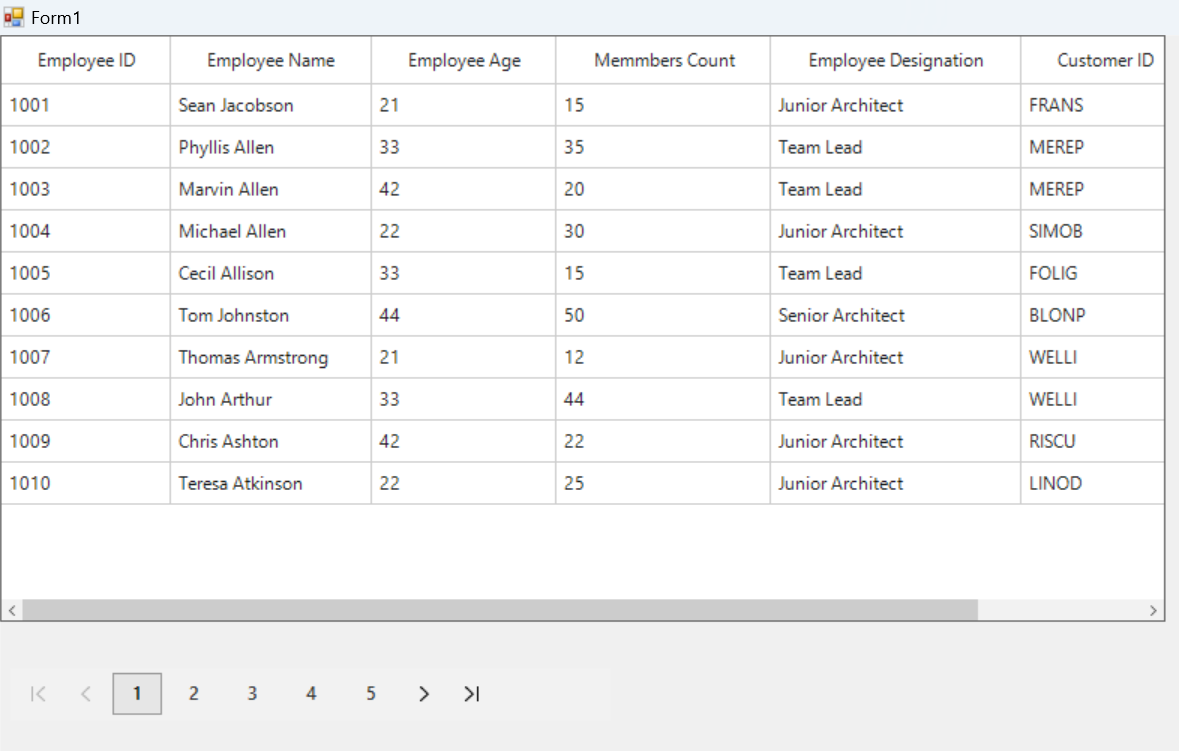
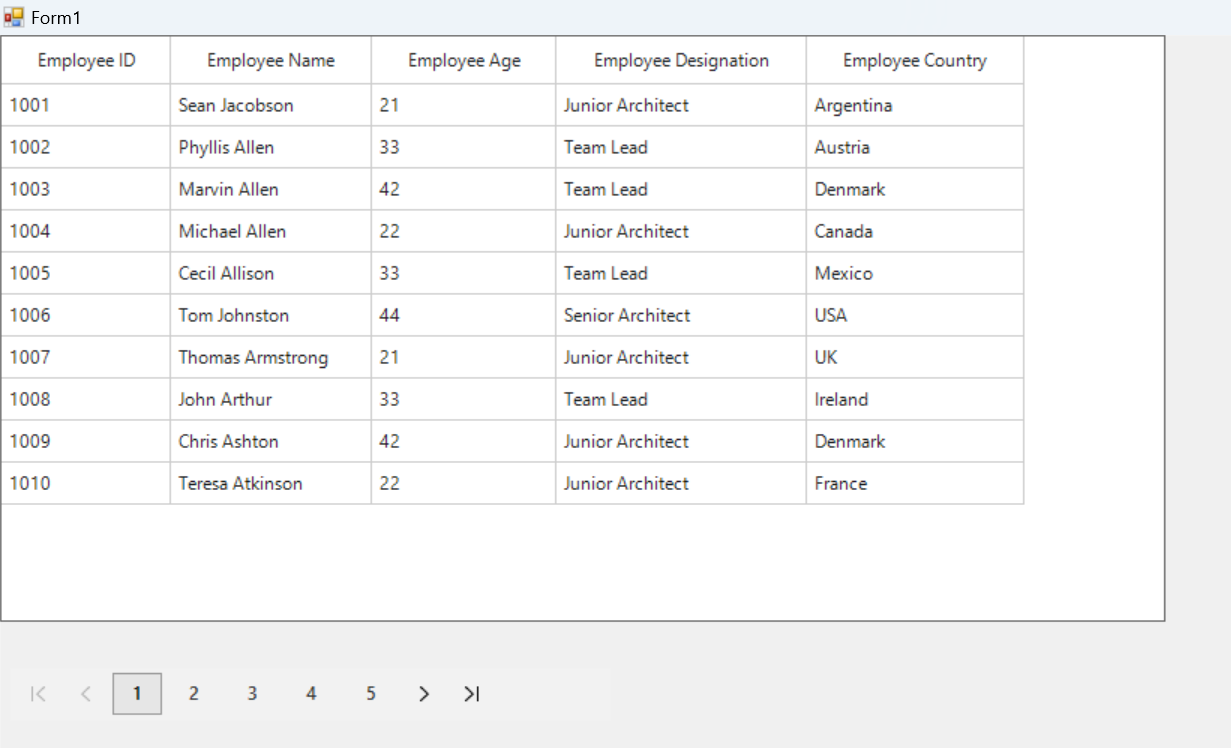
Addressed the concerns.

diff --git a/SfDatagridDemo/SfDatagridDemo/Form1.cs b/SfDatagridDemo/SfDatagridDemo/Form1.cs
@@ -80,62 +80,60 @@ namespace SfDatagridDemo
             myDataTable.Columns.Add("Employee ID", typeof(int));
             myDataTable.Columns.Add("Employee Name", typeof(string));
             myDataTable.Columns.Add("Employee Age", typeof(double));
-            myDataTable.Columns.Add("Memmbers Count", typeof(double));
             myDataTable.Columns.Add("Employee Designation", typeof(string));
-            myDataTable.Columns.Add("Customer ID", typeof(string));
-            myDataTable.Columns.Add("Ship Country", typeof(string));
+            myDataTable.Columns.Add("Employee Country", typeof(string));
 
             // Add some rows to the DataTable.
-            myDataTable.Rows.Add(1001, "Sean Jacobson", 21, 15,  "Junior Architect", "FRANS", "Argentina");
-            myDataTable.Rows.Add(1002, "Phyllis Allen", 33, 35, "Team Lead", "MEREP", "Austria");
-            myDataTable.Rows.Add(1003, "Marvin Allen", 42, 20, "Team Lead", "MEREP", "Denmark");
-            myDataTable.Rows.Add(1004, "Michael Allen", 22, 30, "Junior Architect", "SIMOB", "Canada");
-            myDataTable.Rows.Add(1005, "Cecil Allison", 33, 15,"Team Lead", "FOLIG", "Mexico");
-            myDataTable.Rows.Add(1006, "Tom Johnston", 44,50, "Senior Architect", "BLONP", "USA");
-            myDataTable.Rows.Add(1007, "Thomas Armstrong", 21, 12,"Junior Architect", "WELLI", "UK");
-            myDataTable.Rows.Add(1008, "John Arthur", 33, 44,"Team Lead", "WELLI", "Ireland");
-            myDataTable.Rows.Add(1009, "Chris Ashton", 42,22, "Junior Architect", "RISCU", "Denmark");
-            myDataTable.Rows.Add(1010, "Teresa Atkinson", 22, 25,"Junior Architect", "LINOD", "France");
-            myDataTable.Rows.Add(1011, "John Ault", 33,10, "Sales Engineer", "FOLKO", "Argentina");
-            myDataTable.Rows.Add(1012, "Robert Avalos", 44,45, "Team Lead", "PICCO", "Austria");
-            myDataTable.Rows.Add(1013, "Cecil Allison", 21,7, "Junior Architect", "SIMOB", "Switzerland");
-            myDataTable.Rows.Add(1014, "Stephen Ayers", 33,34, "Junior Architect", "MEREP", "Ireland");
-            myDataTable.Rows.Add(1015, "Selena Alvarad", 42, 40,"Team Lead", "BLONP", "Canada");
-            myDataTable.Rows.Add(1016, "Phyllis Allen", 22,30, "Junior Architect", "LINOD", "Mexico");
-            myDataTable.Rows.Add(1017, "Maxwell Amland", 33,20, "Senior Architect", "FOLIG", "Austria");
-            myDataTable.Rows.Add(1018, "Gustavo Achong", 44,10, "Engineer", "FRANS", "USA");
-            myDataTable.Rows.Add(1019, "Hannah Arakawa", 21,9, "Sales Engineer", "WELLI", "Denmark");
-            myDataTable.Rows.Add(1020, "Stephen Ayers", 33,8, "Senior Architect", "SEVES", "Spain");
-            myDataTable.Rows.Add(1021, "Mae Anderson", 42,40, "Engineer", "RISCU", "Switzerland");
-            myDataTable.Rows.Add(1022, "ames Aguilar", 22,40, "Junior Architect", "SIMOB", "Argentina");
-            myDataTable.Rows.Add(1023, "Sean Jacobson", 33,35, "Team Lead", "FURIB", "Canada");
-            myDataTable.Rows.Add(1024, "Marvin Allen", 44,35, "Sales Engineer", "FOLKO", "France");
-            myDataTable.Rows.Add(1025, "Michael Allen", 21,30, "Junior Architect", "PICCO", "Italy");
-            myDataTable.Rows.Add(1026, "Frances Adams", 33,20, "Team Lead", "WARTH", "Germany");
-            myDataTable.Rows.Add(1027, "Gustavo Achong", 42,40, "Engineer", "VAFFE", "Argentina");
-            myDataTable.Rows.Add(1028, "Chris Ashton", 22, 34, "Junior Architect", "FOLIG", "Denmark");
-            myDataTable.Rows.Add(1029, "Robert Avalos", 33, 43,"Senior Architect", "MEREP", "Canada");
-            myDataTable.Rows.Add(1030, "John Arthur", 44, 65,"Sales Engineer", "LINOD", "Austria");
-            myDataTable.Rows.Add(1031, "Stephen Ayers", 21, 23,"Junior Architect", "BLONP", "France");
-            myDataTable.Rows.Add(1032, "Teresa Atkinson", 33, 32,"Team Lead", "RISCU", "Argentina");
-            myDataTable.Rows.Add(1033, "Thomas Armstrong", 42,21,"Senior Architect", "FURIB", "Ireland");
-            myDataTable.Rows.Add(1034, "Kyley Arbelaez", 22,11, "Junior Architect", "PICCO", "Austria");
-            myDataTable.Rows.Add(1035, "Maxwell Amland", 33,10, "Senior Architect", "FOLKO", "Denmark");
-            myDataTable.Rows.Add(1036, "Frances Adams", 44,32, "Sales Engineer", "FRANS", "France");
-            myDataTable.Rows.Add(1037, "Hannah Arakawa", 21,22, "Sales Engineer", "SIMOB", "Canada");
-            myDataTable.Rows.Add(1038, "Kyley Arbelaez", 33,33, "Senior Architect", "FOLIG", "Italy");
-            myDataTable.Rows.Add(1039, "Maxwell Amland", 42,43, "Engineer", "SEVES", "Mexico");
-            myDataTable.Rows.Add(1040, "Stephen Ayers", 22,32, "Junior Architect", "LINOD", "Argentina");
-            myDataTable.Rows.Add(1041, "John Ault", 33,22, "Team Lead", "WELLI", "France");
-            myDataTable.Rows.Add(1042, "Teresa Atkinson", 44,21, "Senior Architect", "RISCU", "UK");
-            myDataTable.Rows.Add(1043, "Michael Allen", 21,44, "Sales Engineer", "PICCO", "Austria");
-            myDataTable.Rows.Add(1044, "Tom Johnston", 33,32, "Team Lead", "BLONP", "Canada");
-            myDataTable.Rows.Add(1045, "John Arthur", 42, 32,"Engineer", "FOLKO", "Denmark");
-            myDataTable.Rows.Add(1046, "Chris Ashton", 22, 32,"Sales Engineer", "SIMOB", "Argentina");
-            myDataTable.Rows.Add(1047, "Phyllis Allen", 33,43, "Senior Architect", "FOLIG", "Germany");
-            myDataTable.Rows.Add(1048, "Thomas Armstrong", 44,44, "Engineer", "FRANS", "Canada");
-            myDataTable.Rows.Add(1049, "Cecil Allison", 33,26, "Senior Architect", "FOLKO", "France");
-            myDataTable.Rows.Add(1050, "Sean Jacobson", 42,27, "Engineer", "MEREP", "Austria");
+            myDataTable.Rows.Add(1001, "Sean Jacobson", 21,  "Junior Architect", "Argentina");
+            myDataTable.Rows.Add(1002, "Phyllis Allen", 33,  "Team Lead",  "Austria");
+            myDataTable.Rows.Add(1003, "Marvin Allen", 42, "Team Lead", "Denmark");
+            myDataTable.Rows.Add(1004, "Michael Allen", 22, "Junior Architect",  "Canada");
+            myDataTable.Rows.Add(1005, "Cecil Allison", 33,"Team Lead",  "Mexico");
+            myDataTable.Rows.Add(1006, "Tom Johnston", 44,"Senior Architect", "USA");
+            myDataTable.Rows.Add(1007, "Thomas Armstrong", 21, "Junior Architect",  "UK");
+            myDataTable.Rows.Add(1008, "John Arthur", 33,   "Team Lead",  "Ireland");
+            myDataTable.Rows.Add(1009, "Chris Ashton", 42, "Junior Architect", "Denmark");
+            myDataTable.Rows.Add(1010, "Teresa Atkinson", 22,"Junior Architect", "France");
+            myDataTable.Rows.Add(1011, "John Ault", 33,"Sales Engineer",  "Argentina");
+            myDataTable.Rows.Add(1012, "Robert Avalos", 44, "Team Lead",  "Austria");
+            myDataTable.Rows.Add(1013, "Cecil Allison", 21,"Junior Architect",  "Switzerland");
+            myDataTable.Rows.Add(1014, "Stephen Ayers", 33,"Junior Architect", "Ireland");
+            myDataTable.Rows.Add(1015, "Selena Alvarad", 42, "Team Lead", "Canada");
+            myDataTable.Rows.Add(1016, "Phyllis Allen", 22,"Junior Architect", "Mexico");
+            myDataTable.Rows.Add(1017, "Maxwell Amland", 33,"Senior Architect", "Austria");
+            myDataTable.Rows.Add(1018, "Gustavo Achong", 44,"Engineer", "USA");
+            myDataTable.Rows.Add(1019, "Hannah Arakawa", 21,"Sales Engineer", "Denmark");
+            myDataTable.Rows.Add(1020, "Stephen Ayers", 33,"Senior Architect", "Spain");
+            myDataTable.Rows.Add(1021, "Mae Anderson", 42,"Engineer", "Switzerland");
+            myDataTable.Rows.Add(1022, "ames Aguilar", 22,"Junior Architect", "Argentina");
+            myDataTable.Rows.Add(1023, "Sean Jacobson", 33,"Team Lead", "Canada");
+            myDataTable.Rows.Add(1024, "Marvin Allen", 44,"Sales Engineer", "France");
+            myDataTable.Rows.Add(1025, "Michael Allen", 21,"Junior Architect", "Italy");
+            myDataTable.Rows.Add(1026, "Frances Adams", 33,"Team Lead", "Germany");
+            myDataTable.Rows.Add(1027, "Gustavo Achong", 42,"Engineer", "Argentina");
+            myDataTable.Rows.Add(1028, "Chris Ashton", 22, "Junior Architect", "Denmark");
+            myDataTable.Rows.Add(1029, "Robert Avalos", 33, "Senior Architect", "Canada");
+            myDataTable.Rows.Add(1030, "John Arthur", 44, "Sales Engineer", "Austria");
+            myDataTable.Rows.Add(1031, "Stephen Ayers", 21, "Junior Architect", "France");
+            myDataTable.Rows.Add(1032, "Teresa Atkinson", 33, "Team Lead", "Argentina");
+            myDataTable.Rows.Add(1033, "Thomas Armstrong", 42,"Senior Architect", "Ireland");
+            myDataTable.Rows.Add(1034, "Kyley Arbelaez", 22,"Junior Architect", "Austria");
+            myDataTable.Rows.Add(1035, "Maxwell Amland", 33,"Senior Architect", "Denmark");
+            myDataTable.Rows.Add(1036, "Frances Adams", 44,"Sales Engineer", "France");
+            myDataTable.Rows.Add(1037, "Hannah Arakawa", 21,"Sales Engineer", "Canada");
+            myDataTable.Rows.Add(1038, "Kyley Arbelaez", 33,"Senior Architect", "Italy");
+            myDataTable.Rows.Add(1039, "Maxwell Amland", 42,"Engineer", "Mexico");
+            myDataTable.Rows.Add(1040, "Stephen Ayers", 22,"Junior Architect", "Argentina");
+            myDataTable.Rows.Add(1041, "John Ault", 33,"Team Lead", "France");
+            myDataTable.Rows.Add(1042, "Teresa Atkinson", 44,"Senior Architect", "UK");
+            myDataTable.Rows.Add(1043, "Michael Allen", 21,"Sales Engineer", "Austria");
+            myDataTable.Rows.Add(1044, "Tom Johnston", 33,"Team Lead", "Canada");
+            myDataTable.Rows.Add(1045, "John Arthur", 42, "Engineer", "Denmark");
+            myDataTable.Rows.Add(1046, "Chris Ashton", 22, "Sales Engineer", "Argentina");
+            myDataTable.Rows.Add(1047, "Phyllis Allen", 33,"Senior Architect", "Germany");
+            myDataTable.Rows.Add(1048, "Thomas Armstrong", 44,"Engineer", "Canada");
+            myDataTable.Rows.Add(1049, "Cecil Allison", 33,"Senior Architect", "France");
+            myDataTable.Rows.Add(1050, "Sean Jacobson", 42,"Engineer", "Austria");
             return myDataTable;
         }
     }

diff --git a/README.md b/README.md
@@ -1,2 +1,69 @@
-# How-to-Use-SfDataPager-with-DataTable-as-ItemSource-for-SfDataGrid
-How to Use SfDataPager with DataTable as ItemSource for SfDataGrid
+# How to Use SfDataPager with DataTable as ItemSource for SfDataGrid
+
+By default, SfDataPager doesn’t accept DataTable as a source, and we have documented this as a limitation below.
+
+ [Winforms-DataGrid-Paging Limitation](https://help.syncfusion.com/windowsforms/datagrid/paging#limitations)
+
+However, we can provide a workaround to achieve your requirement by converting the DataTable to an ExpandoObject. Then, you can set the ExpandoObject collection as the DataSource for SfDataPager, as demonstrated below:
+
+ ```C#
+private DataTable dataTableCollection;
+private ObservableCollection<dynamic> dynamicCollection;
+public Form1()
+{
+    InitializeComponent();
+    this.WindowState = FormWindowState.Maximized;
+    //Gets the data for DataTable object.
+    dataTableCollection = GetGridData();
+
+    //Convert DataTable collection as Dyanamic collection.
+    dynamicCollection = new ObservableCollection<dynamic>();
+    foreach (System.Data.DataRow row in dataTableCollection.Rows)
+    {
+        dynamic dyn = new ExpandoObject();
+        dynamicCollection.Add(dyn);
+        foreach (DataColumn column in dataTableCollection.Columns)
+        {
+            var dic = (IDictionary<string, object>)dyn;
+            dic[column.ColumnName] = row[column];
+        }
+    }
+
+    DynamicOrders = dynamicCollection;
+    sfDataPager1.DataSource = DynamicOrders;
+    sfDataPager1.PageSize = 10;
+    sfDataGrid1.DataSource = sfDataPager1.PagedSource;
+}
+
+
+private ObservableCollection<dynamic> _dynamicOrders;
+
+/// <summary>
+/// Gets or sets the dynamic orders.
+/// </summary>
+/// <value>The dynamic orders.</value>
+public ObservableCollection<dynamic> DynamicOrders
+{
+    get
+    {
+        return _dynamicOrders;
+    }
+    set
+    {
+        _dynamicOrders = value;
+    }
+}
+
+public DataTable DataTableCollection
+{
+    get { return dataTableCollection; }
+    set { dataTableCollection = value; }
+}
+
+ ```
+
+**Image Reference:**
+    
+ ![DataPager_Image.png](https://support.syncfusion.com/kb/agent/attachment/article/15655/inline?token=eyJhbGciOiJodHRwOi8vd3d3LnczLm9yZy8yMDAxLzA0L3htbGRzaWctbW9yZSNobWFjLXNoYTI1NiIsInR5cCI6IkpXVCJ9.eyJpZCI6IjIwNDM3Iiwib3JnaWQiOiIzIiwiaXNzIjoic3VwcG9ydC5zeW5jZnVzaW9uLmNvbSJ9.INqSoT0Bdi72yTLjCloSQsrPGc-_oycVDMfLX6oIcms)
+
+Take a moment to peruse the   [Winforms DataGrid - Paging  Documentation](https://help.syncfusion.com/windowsforms/datagrid/paging) documentation, to learn more about Paging with examples.
